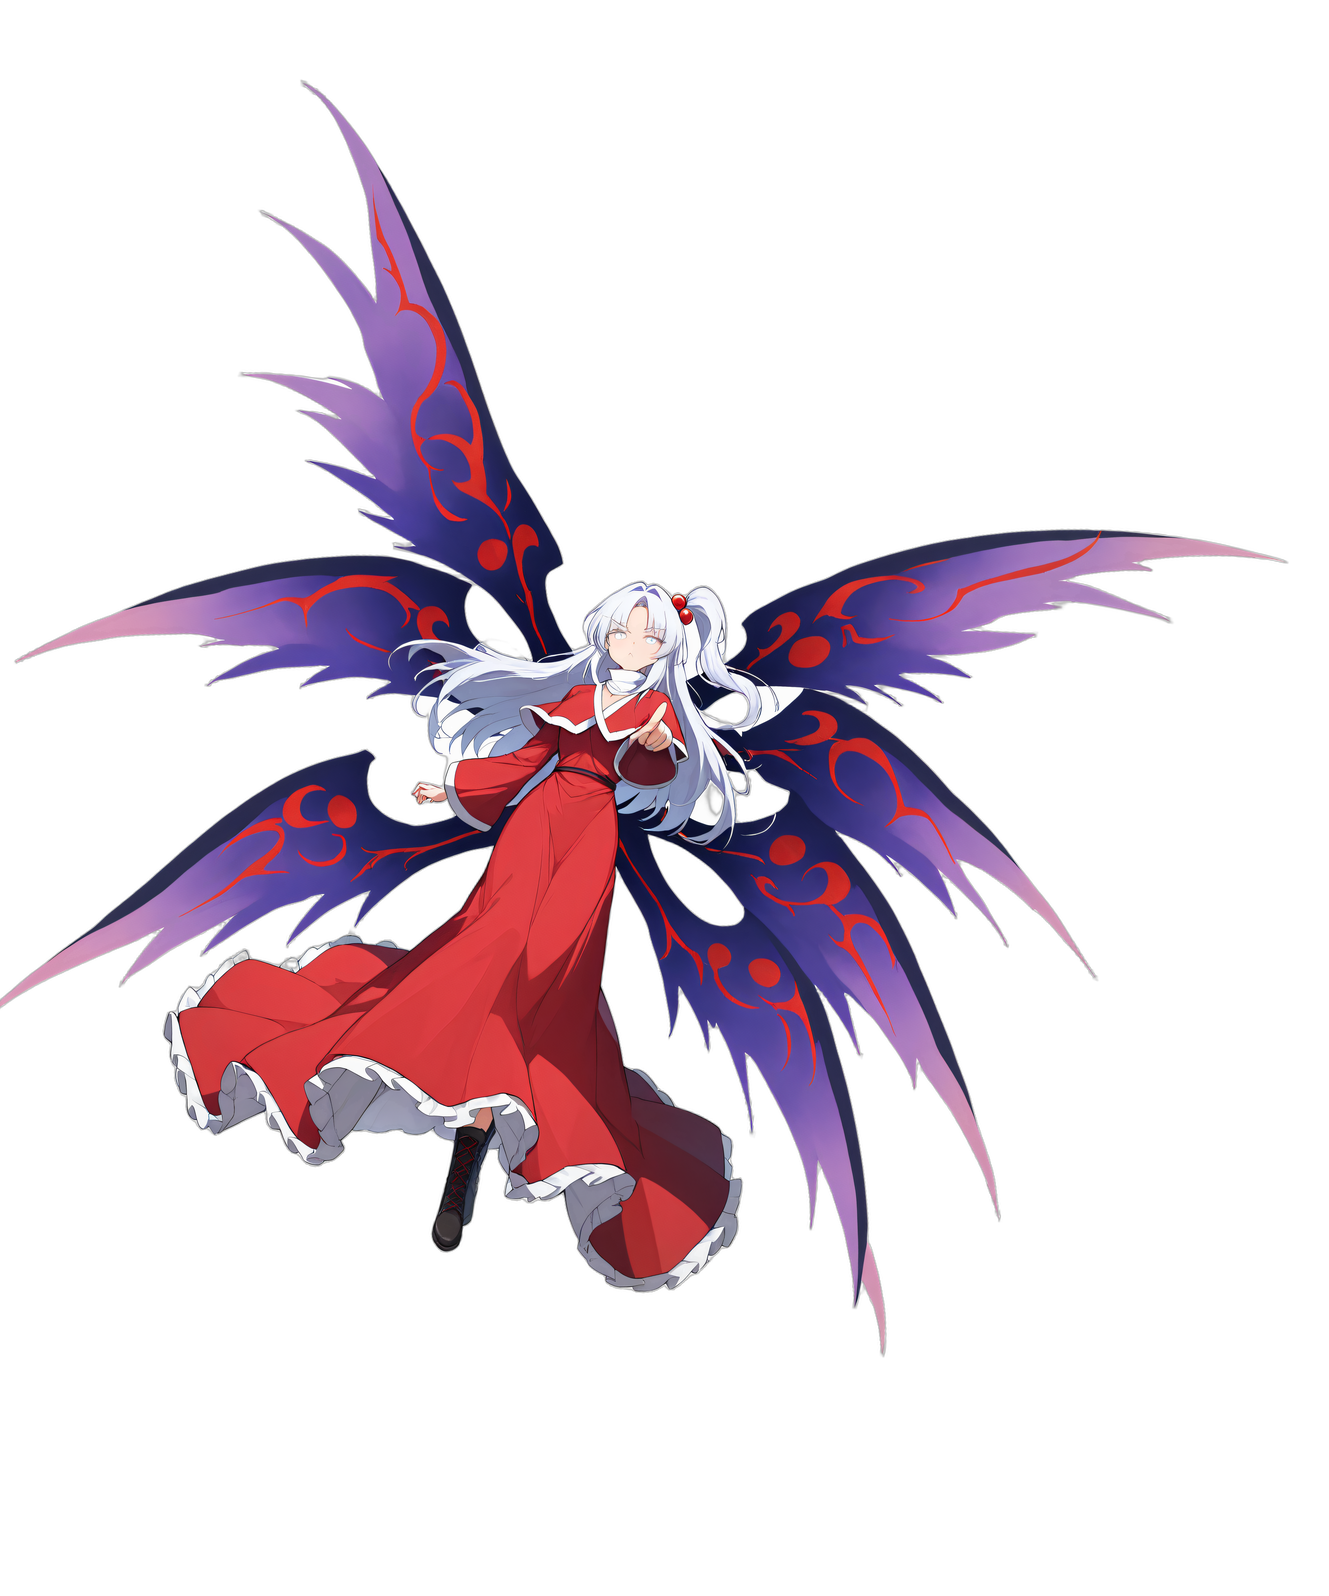
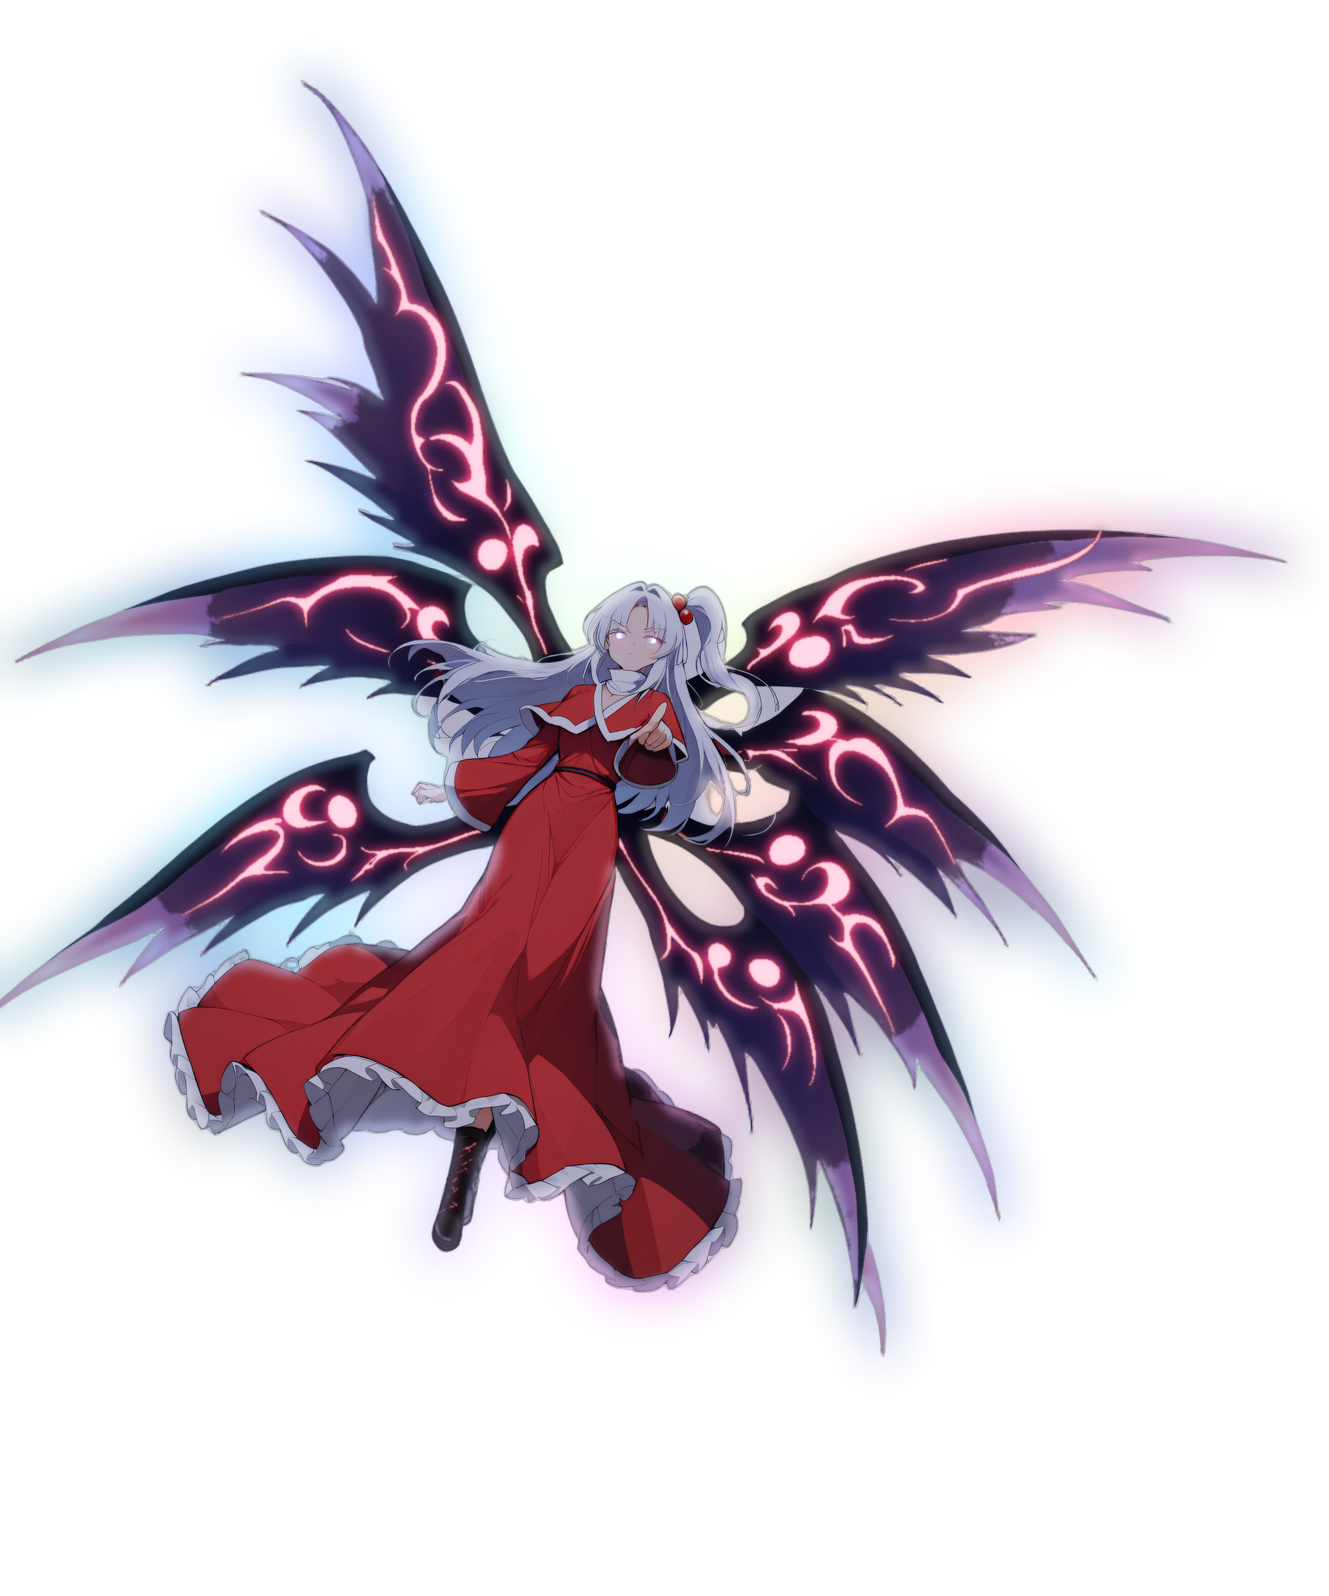
feat: 神綺 LR 人物打光 (背光、翅膀紋路與眼睛發光)
- 新增 tools/card_art/layered/relight.py：冷色調背光 + 彈幕色輪廓光 + 身後光暈，
  翅膀黑紫色壓暗、紅色紋路螢光發亮 (依四周顏色判斷紋路，衣服不受影響)、眼睛發光
- hd_card.py 新增 light 步驟 (10b_char_lit.png)，有打光版時疊層優先使用

Changed region(s): [[0.0, 0.0307, 0.9564, 0.8596]]

diff --git a/tools/card_art/layered/relight.py b/tools/card_art/layered/relight.py
@@ -1,0 +1,96 @@
+"""人物打光 (分層卡用)：讓去背人物的光影符合背景
+背景是大量發光彈幕 ➔ 人物是背光的：整體壓暗 + 邊緣輪廓光 (顏色取自身後的彈幕) + 身後光暈，
+再讓翅膀紋路、眼睛自己發光。全部用程式算，不會改到人物的線條與細節。
+
+relight(char, bg, opts) ➔ RGBA (同 char 大小)；char = 10_char.png，bg = 背景在同一塊畫窗範圍的裁切
+opts (都可省略)：
+  dark        背光壓暗程度 (0~1，人物亮度乘上 1 - dark)
+  rim         輪廓光強度；rim_width 輪廓光寬度 (px)
+  halo        身後光暈強度 (畫在人物外側，半透明)
+  glow_red    翅膀上細紅紋路的發光強度 (只抓細線，衣服大片紅色不會發光)
+  wing_dark   翅膀本體 (紫色 / 黑色部分) 再壓暗的程度
+  eyes        眼睛中心座標 [(x, y), ...] (10_char.png 的座標)；eye 強度、eye_color、eye_size
+"""
+import colorsys
+
+import numpy as np
+from scipy import ndimage
+from PIL import Image, ImageChops, ImageDraw, ImageFilter
+
+
+def _blur(a: np.ndarray, r: float) -> np.ndarray:
+    return np.asarray(Image.fromarray(np.clip(a * 255, 0, 255).astype(np.uint8)).filter(ImageFilter.GaussianBlur(r)), dtype=np.float32) / 255
+
+
+def _blur_rgb(a: np.ndarray, r: float) -> np.ndarray:
+    return np.asarray(Image.fromarray(np.clip(a * 255, 0, 255).astype(np.uint8), "RGB").filter(ImageFilter.GaussianBlur(r)), dtype=np.float32) / 255
+
+
+def _morph(mask: np.ndarray, size: int, op) -> np.ndarray:
+    return np.asarray(Image.fromarray((mask * 255).astype(np.uint8)).filter(op(size)), dtype=np.float32) / 255
+
+
+def relight(char: Image.Image, bg: Image.Image, opts: dict) -> Image.Image:
+    w, h = char.size
+    rgba = np.asarray(char.convert("RGBA"), dtype=np.float32) / 255
+    rgb, a = rgba[..., :3], rgba[..., 3]
+    # 環境光：身後背景大幅模糊 + 提亮飽和，當成每個位置照到人物的光色
+    env = _blur_rgb(np.asarray(bg.convert("RGB").resize((w, h)), dtype=np.float32) / 255, w / 25)
+    env = np.clip(env / max(env.max(), 1e-3) * 1.15, 0, 1)
+
+    # 1. 背光：整體壓暗，暗部帶一點環境色
+    dark = opts.get("dark", 0.25)
+    out = rgb * (1 - dark) * np.array([0.93, 0.92, 1.05])           # 冷色調壓暗 (不混灰，線條保持清楚)
+
+    # 2. 輪廓光：人物邊緣往內一圈，顏色 = 身後彈幕的顏色
+    rw = opts.get("rim_width", max(2, w // 220))
+    inner = np.clip(a - _morph(a, rw * 2 + 1, ImageFilter.MinFilter), 0, 1)
+    rim = _blur(inner, rw * 0.8) * a * opts.get("rim", 0.9)
+    out = 1 - (1 - out) * (1 - env * rim[..., None])                 # 濾色
+
+    # 3. 翅膀紋路發光：紅色區塊裡「四周被翅膀的紫 / 黑色包圍」的才是紋路 (披肩、衣服四周是白邊或頭髮，不會被選到)
+    hsv = np.asarray(Image.fromarray((rgb * 255).astype(np.uint8)).convert("HSV"), dtype=np.float32) / 255
+    hue_, sat, val = hsv[..., 0], hsv[..., 1], hsv[..., 2]
+    is_red = ((hue_ < 0.04) | (hue_ > 0.95)) & (sat > 0.5) & (val > 0.35) & (a > 0.5)
+    wingish = (((hue_ > 0.62) & (hue_ < 0.9) & (sat > 0.35) & (val < 0.85)) | (val < 0.3)) & (a > 0.5) & ~is_red
+    labels, n = ndimage.label(is_red, structure=np.ones((3, 3)))
+    ring = ndimage.binary_dilation(is_red, iterations=3) & ~is_red
+    owner = ndimage.maximum_filter(labels, size=7)[ring]                # 每個邊緣點屬於哪個紅色區塊
+    total = np.bincount(owner, minlength=n + 1)
+    hits = np.bincount(owner, weights=wingish[ring].astype(np.float64), minlength=n + 1)
+    is_pattern = np.zeros(n + 1, bool)
+    is_pattern[1:] = (hits[1:] / np.maximum(total[1:], 1)) > opts.get("pattern_ring", 0.6)
+    pattern = _blur(is_pattern[labels].astype(np.float32), 0.8)
+    # 翅膀本體 = 紫 / 黑色 + 紋路；使用者：黑色部分要暗、紅色紋路要螢亮
+    wing = _blur(np.clip(wingish.astype(np.float32) + pattern, 0, 1), 1.0) * a
+    out = out * (1 - wing[..., None] * opts.get("wing_dark", 0.45))  # 翅膀壓暗
+    g = opts.get("glow_red", 1.0)
+    core = np.array([1.0, 0.45, 0.55])                               # 紋路本身：亮粉紅、中心偏白
+    out = out * (1 - pattern[..., None] * g) + core * pattern[..., None] * g
+    hot = _blur(pattern, 0.6) ** 2                                   # 紋路中心更亮 (螢光感)
+    out = out + hot[..., None] * np.array([0.0, 0.35, 0.3]) * g
+    bloom = (_blur(pattern, w / 260) * 1.2 + _blur(pattern, w / 90) * 0.5)[..., None] * np.array([1.0, 0.2, 0.35]) * g
+    out = 1 - (1 - out) * (1 - np.clip(bloom, 0, 1) * wing[..., None])   # 紋路的光只暈在翅膀上，不會染到衣服
+
+    # 4. 眼睛發光：小光點 + 柔光
+    eye_layer = Image.new("RGB", (w, h), 0)
+    d = ImageDraw.Draw(eye_layer)
+    ec = opts.get("eye_color", (190, 160, 255))
+    es = opts.get("eye_size", max(2, w // 600))
+    for x, y in opts.get("eyes", []):
+        d.ellipse((x - es, y - es, x + es, y + es), fill=ec)
+    eye = ImageChops.add(eye_layer.filter(ImageFilter.GaussianBlur(es * 3)), eye_layer.filter(ImageFilter.GaussianBlur(es * 0.5)).point(lambda v: int(v * 0.8)))
+    out = np.clip(out + np.asarray(eye, dtype=np.float32) / 255 * opts.get("eye", 0.9), 0, 1)
+
+    # 5. 身後光暈：人物外側一圈半透明的環境色光 (翅膀從彈幕裡浮出來)
+    k = max(5, w // 90) | 1
+    halo_a = np.clip(_blur(_morph(a, k, ImageFilter.MaxFilter), w / 60) - a, 0, 1) * opts.get("halo", 0.55)
+    glow_from_pattern = np.clip(bloom.max(axis=2) * (1 - a), 0, 1)   # 紋路的光也溢到人物外
+    alpha = np.clip(a + halo_a + glow_from_pattern, 0, 1)
+    extra = alpha - a                                                  # 光暈只加在人物外側
+    halo_rgb = np.clip(env * halo_a[..., None] + bloom * glow_from_pattern[..., None], 0, None)
+    halo_rgb = np.clip(halo_rgb / np.maximum(halo_a + glow_from_pattern, 1e-3)[..., None], 0, 1)
+    premul = out * a[..., None] + halo_rgb * extra[..., None]          # 預乘 alpha 再還原
+    final_rgb = np.where(alpha[..., None] > 1e-3, premul / np.maximum(alpha, 1e-3)[..., None], 0)
+    res = np.dstack([np.clip(final_rgb, 0, 1), alpha])
+    return Image.fromarray((res * 255).astype(np.uint8), "RGBA")

diff --git a/tools/card_art/layered/hd_card.py b/tools/card_art/layered/hd_card.py
@@ -11,6 +11,7 @@
         08_char_hd.png     放大成畫窗 16 倍像素 (5316×6384)
         09_char_cut_hd.png 去背 (BiRefNet)
         10_char.png        裁掉空白、傾斜 (tilt)、縮到剛好完整放進畫窗 (× char_scale)，放到畫窗大小的畫布 (offset 微調，超出切掉) ★
+        10b_char_lit.png   打光 (relight.py：背光、輪廓光、翅膀紋路與眼睛發光；LAYERS 有 light 才做) ★ 有這張就用這張
   疊層  11_art.png         背景 + 人物 (沒有框的完整原圖，也複製到 Original/Art/<角色>_<階級>.png；
                            10_char.png 另外複製成 Art/<角色>_<階級>_char.png)
         12_bg_frame.png    背景 + 卡框
@@ -27,6 +28,7 @@
   python hd_card.py collect <角色> <階級> bg|char <種子>            把 ComfyUI 的輸出複製成 01~03 / 06~08
   python hd_card.py bg <角色> <階級>                                 04、05
   python hd_card.py char <角色> <階級>                               09、10 (去背用 comfy venv 的 python)
+  python hd_card.py light <角色> <階級>                              10b (打光，LAYERS 的 light)
   python hd_card.py compose <角色> <階級>                            11~16
 """
 import glob
@@ -43,6 +45,7 @@ sys.path.insert(0, os.path.dirname(HERE))
 sys.path.insert(0, HERE)
 from card import PROJECT_ROOT, render_layered_stages, window_box  # noqa: E402
 from danmaku import BASE_W, draw_danmaku  # noqa: E402
+from relight import relight  # noqa: E402
 from make_workflow import BASE, NEGATIVE, QUALITY, EXTRA_NEGATIVE  # noqa: E402
 
 Image.MAX_IMAGE_PIXELS = None                      # 高清背景 6992×9728 超過 PIL 預設上限
@@ -74,7 +77,9 @@ LAYERS = {
         "glow": 0.6,       # 彈幕光暈強度 (太高會變成一片霧)
         "tilt": -12,       # 人物傾斜角度 (負 = 順時針：頭往右上、腳往左下)
         "char_scale": 1.0, # 人物大小 = 剛好完整放進畫窗的幾倍
-        "offset": (-0.03, -0.05),   # 人物位置微調 (畫窗寬高的比例；使用者：往左上一點，靠近中心，左側翅膀切掉一點沒關係)
+        "offset": (-0.03, -0.05),
+        # 打光 (relight.py)：背景是大量彈幕 ➔ 背光 + 輪廓光，翅膀紋路與眼睛發光；眼睛座標是 10_char.png 上的位置
+        "light": {"eyes": [(619, 635), (653, 640)]},   # 人物位置微調 (畫窗寬高的比例；使用者：往左上一點，靠近中心，左側翅膀切掉一點沒關係)
     },
 }
 
@@ -233,6 +238,25 @@ def make_char(char_id, rarity):
                                 round((canvas.height - ch.height) / 2 + dy * canvas.height)))   # 超出部分 PIL 會自動裁掉
     canvas.save(os.path.join(d, "10_char.png"))
     print("✅ 10_char")
+    if spec.get("light") is not None:
+        make_light(char_id, rarity)
+
+
+def make_light(char_id, rarity):
+    d = stage_dir(char_id, rarity)
+    opts = LAYERS[(char_id, rarity)].get("light")
+    if opts is None:
+        raise SystemExit("LAYERS 沒有 light 設定")
+    l, t, r, b = window_box()
+    win = Image.open(os.path.join(d, "05_bg.png")).convert("RGB").crop((l, t, r, b))
+    relight(Image.open(os.path.join(d, "10_char.png")), win, opts).save(os.path.join(d, "10b_char_lit.png"))
+    print("✅ 10b_char_lit")
+
+
+def char_layer(d):
+    """疊層用的人物：有打光版就用打光版"""
+    lit = os.path.join(d, "10b_char_lit.png")
+    return lit if os.path.exists(lit) else os.path.join(d, "10_char.png")
 
 
 def layered_paths(char_id, rarity):
@@ -241,7 +265,7 @@ def layered_paths(char_id, rarity):
         d = os.path.join(PROJECT_ROOT, "images", "Original", category_of(char_id), char_id, rarity)
     except SystemExit:
         return None
-    bg, ch = os.path.join(d, "05_bg.png"), os.path.join(d, "10_char.png")
+    bg, ch = os.path.join(d, "05_bg.png"), char_layer(d)
     return (bg, ch) if os.path.exists(bg) and os.path.exists(ch) else None
 
 
@@ -250,14 +274,14 @@ def compose(char_id, rarity):
     from build_cards import ART_DIR, EN_NAMES, load_characters
     d = stage_dir(char_id, rarity)
     char = load_characters()[char_id]
-    stages = render_layered_stages(os.path.join(d, "05_bg.png"), os.path.join(d, "10_char.png"), rarity,
+    stages = render_layered_stages(os.path.join(d, "05_bg.png"), char_layer(d), rarity,
                                    char["gacha"]["titles"][rarity], EN_NAMES[char_id])
     names = {"art": "11_art", "bg_frame": "12_bg_frame", "frame_char": "13_frame_char", "text": "14_text", "card": "15_card"}
     for key, name in names.items():
         stages[key].save(os.path.join(d, name + ".png"))
         print("✅", name)
     shutil.copy(os.path.join(d, "11_art.png"), os.path.join(ART_DIR, f"{char_id}_{rarity}.png"))
-    shutil.copy(os.path.join(d, "10_char.png"), os.path.join(ART_DIR, f"{char_id}_{rarity}_char.png"))   # 沒有背景的人物 (使用者：UR / LR 都要留)
+    shutil.copy(char_layer(d), os.path.join(ART_DIR, f"{char_id}_{rarity}_char.png"))   # 沒有背景的人物 (使用者：UR / LR 都要留)
     print(f"✅ Art/{char_id}_{rarity}.png、{char_id}_{rarity}_char.png")
     if rarity in RARITY_EFFECTS:
         kb = save_animation(stages["card"], RARITY_EFFECTS[rarity], os.path.join(d, "16_card.gif")) / 1024
@@ -287,6 +311,8 @@ def main():
         make_bg(char_id, rarity)
     elif cmd == "char":
         make_char(char_id, rarity)
+    elif cmd == "light":
+        make_light(char_id, rarity)
     elif cmd == "compose":
         compose(char_id, rarity)
     else:
